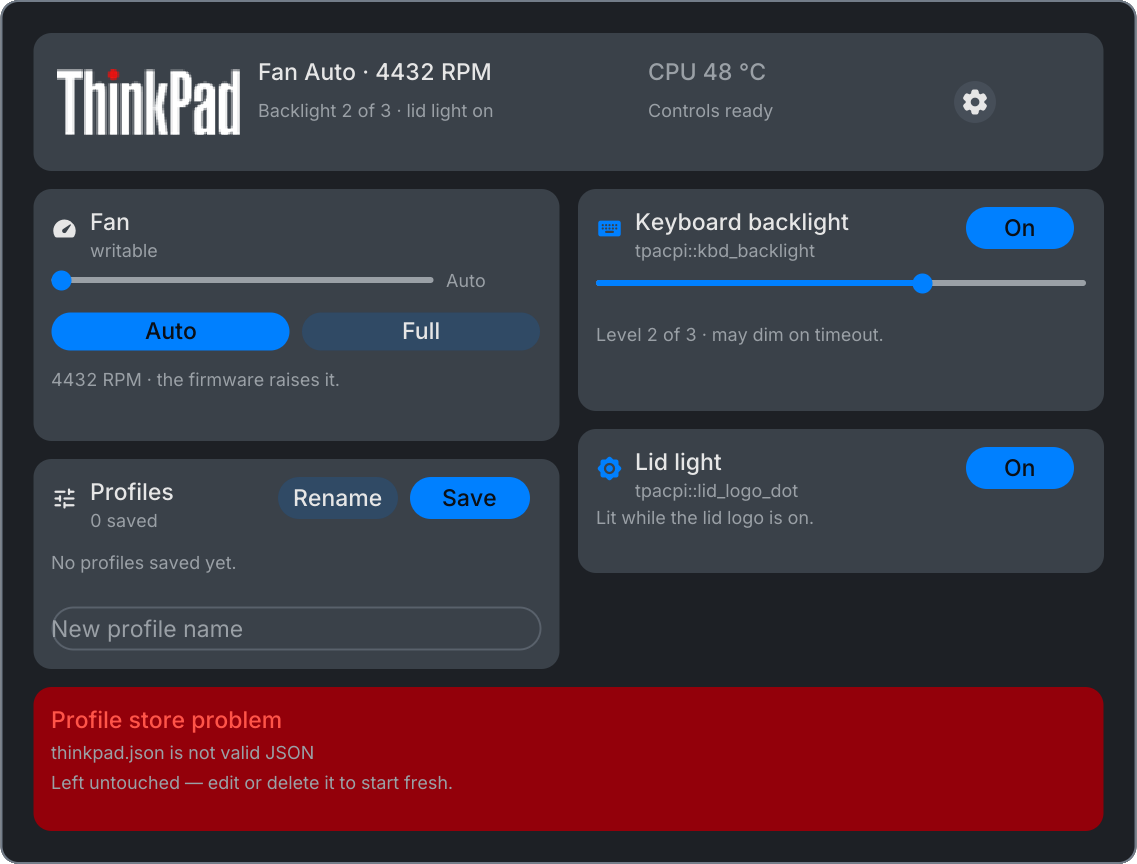
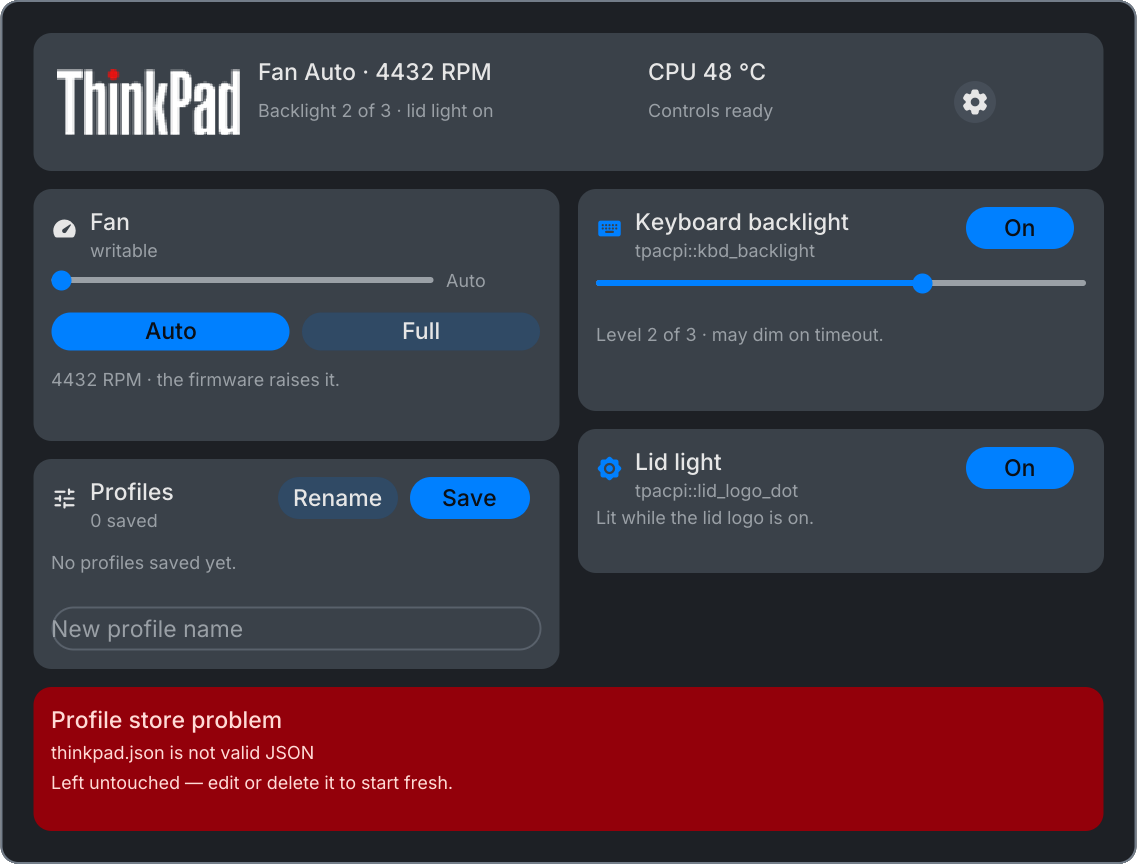
fix(thinkpad): improve warning text contrast

Changed region(s): [[0.0308, 0.8125, 0.277, 0.9375], [0.5541, 0.0625, 0.6772, 0.0938]]

diff --git a/plugins/thinkpad/view.go b/plugins/thinkpad/view.go
@@ -209,15 +209,6 @@ func fillFor(enabled bool, on string, off string) string {
 	return off
 }
 
-// thermalTone keeps the hero honest: a hot CPU reads as an error even though
-// nothing has actually failed yet.
-func thermalTone(snap Snapshot, cfg Config) v1.Tone {
-	if cfg.WarnThermal && snap.State.CPUTempValid && snap.State.Hot(cfg.ThermalLimitC) {
-		return v1.ToneError
-	}
-	return v1.ToneSubtle
-}
-
 func thermalLabel(snap Snapshot, cfg Config) string {
 	if !snap.State.CPUTempValid {
 		// Short on purpose: this sits in the hero's narrow side column, and
@@ -266,7 +257,7 @@ func hero(snap Snapshot, cfg Config, logo string) *v1.Node {
 		caption("hero-detail", detailLine(snap), 0),
 	)
 	side := columnNode(cardGap, 0, 0,
-		textNode("hero-thermal", thermalLabel(snap, cfg), sizeLabel, thermalTone(snap, cfg), 0),
+		textNode("hero-thermal", thermalLabel(snap, cfg), sizeLabel, v1.ToneNormal, 0),
 		caption("hero-access", accessLabel(snap), 0),
 	)
 
@@ -752,9 +743,9 @@ func setupCard(snap Snapshot) *v1.Node {
 		Height: setupCardHeight, Padding: cardPad, Gap: cardGap,
 		Children: []*v1.Node{
 			textNode("setup-title", "Some controls need setup",
-				sizeLabel, v1.ToneError, 0),
-			caption("setup-why", "A fan option or write permission is missing. "+
-				"Copy the fix, run it in a terminal, then re-check.", cardContent()),
+				sizeLabel, v1.ToneNormal, 0),
+			textNode("setup-why", "A fan option or write permission is missing. "+
+				"Copy the fix, run it in a terminal, then re-check.", sizeCaption, v1.ToneNormal, cardContent()),
 			&v1.Node{
 				Kind: v1.KindRow, Height: actionRowHeight, Gap: cardGap,
 				Children: []*v1.Node{
@@ -773,12 +764,13 @@ func storeCard(snap Snapshot) *v1.Node {
 		Kind: v1.KindColumn, Fill: fillErrored, Shape: shapeCard,
 		Height: storeCardHeight, Padding: cardPad, Gap: 4,
 		Children: []*v1.Node{
-			textNode("store-title", "Profile store problem", sizeLabel, v1.ToneError, 0),
-			caption("store-body", snap.StoreIssue, cardContent()),
+			textNode("store-title", "Profile store problem", sizeLabel, v1.ToneNormal, 0),
+			textNode("store-body", snap.StoreIssue, sizeCaption, v1.ToneNormal, cardContent()),
 			// The store refuses to overwrite a file it could not parse, so the
 			// user's own profiles are still on disk. Say so: an error card that
 			// only names the fault reads as "your profiles are gone".
-			caption("store-hint", "Left untouched — edit or delete it to start fresh.", cardContent()),
+			textNode("store-hint", "Left untouched — edit or delete it to start fresh.",
+				sizeCaption, v1.ToneNormal, cardContent()),
 		},
 	}
 }

diff --git a/plugins/thinkpad/view_test.go b/plugins/thinkpad/view_test.go
@@ -252,6 +252,34 @@ func TestPartialSetupIsReportedWithoutDisablingWritableControls(t *testing.T) {
 	}
 }
 
+func TestErrorCardsUseNormalContrastText(t *testing.T) {
+	snap := snapshots()["readonly"]
+	cards := map[string]*v1.Node{
+		"setup": setupCard(snap),
+		"store": storeCard(Snapshot{StoreIssue: "thinkpad.json is not valid JSON"}),
+	}
+	for name, card := range cards {
+		walk(card, func(node *v1.Node) {
+			if node.Kind == v1.KindText && node.Tone != v1.ToneNormal {
+				t.Errorf("%s text %q tone = %q, want normal foreground on the error container",
+					name, node.Key, node.Tone)
+			}
+		})
+	}
+}
+
+func TestHotThermalWarningUsesNormalContrastText(t *testing.T) {
+	var got *v1.Node
+	walk(hero(snapshots()["hot"], DefaultConfig(), ""), func(node *v1.Node) {
+		if node.Key == "hero-thermal" {
+			got = node
+		}
+	})
+	if got == nil || !strings.Contains(got.Text, "hot") || got.Tone != v1.ToneNormal {
+		t.Fatalf("hot thermal label = %+v, want an explicit hot warning in normal foreground", got)
+	}
+}
+
 func TestBarUsesTheThinkPadWordmarkAndDeclaresPointerInput(t *testing.T) {
 	logo := filepath.Join(t.TempDir(), "thinkpad.png")
 	if err := os.WriteFile(logo, []byte("image"), 0o644); err != nil {
